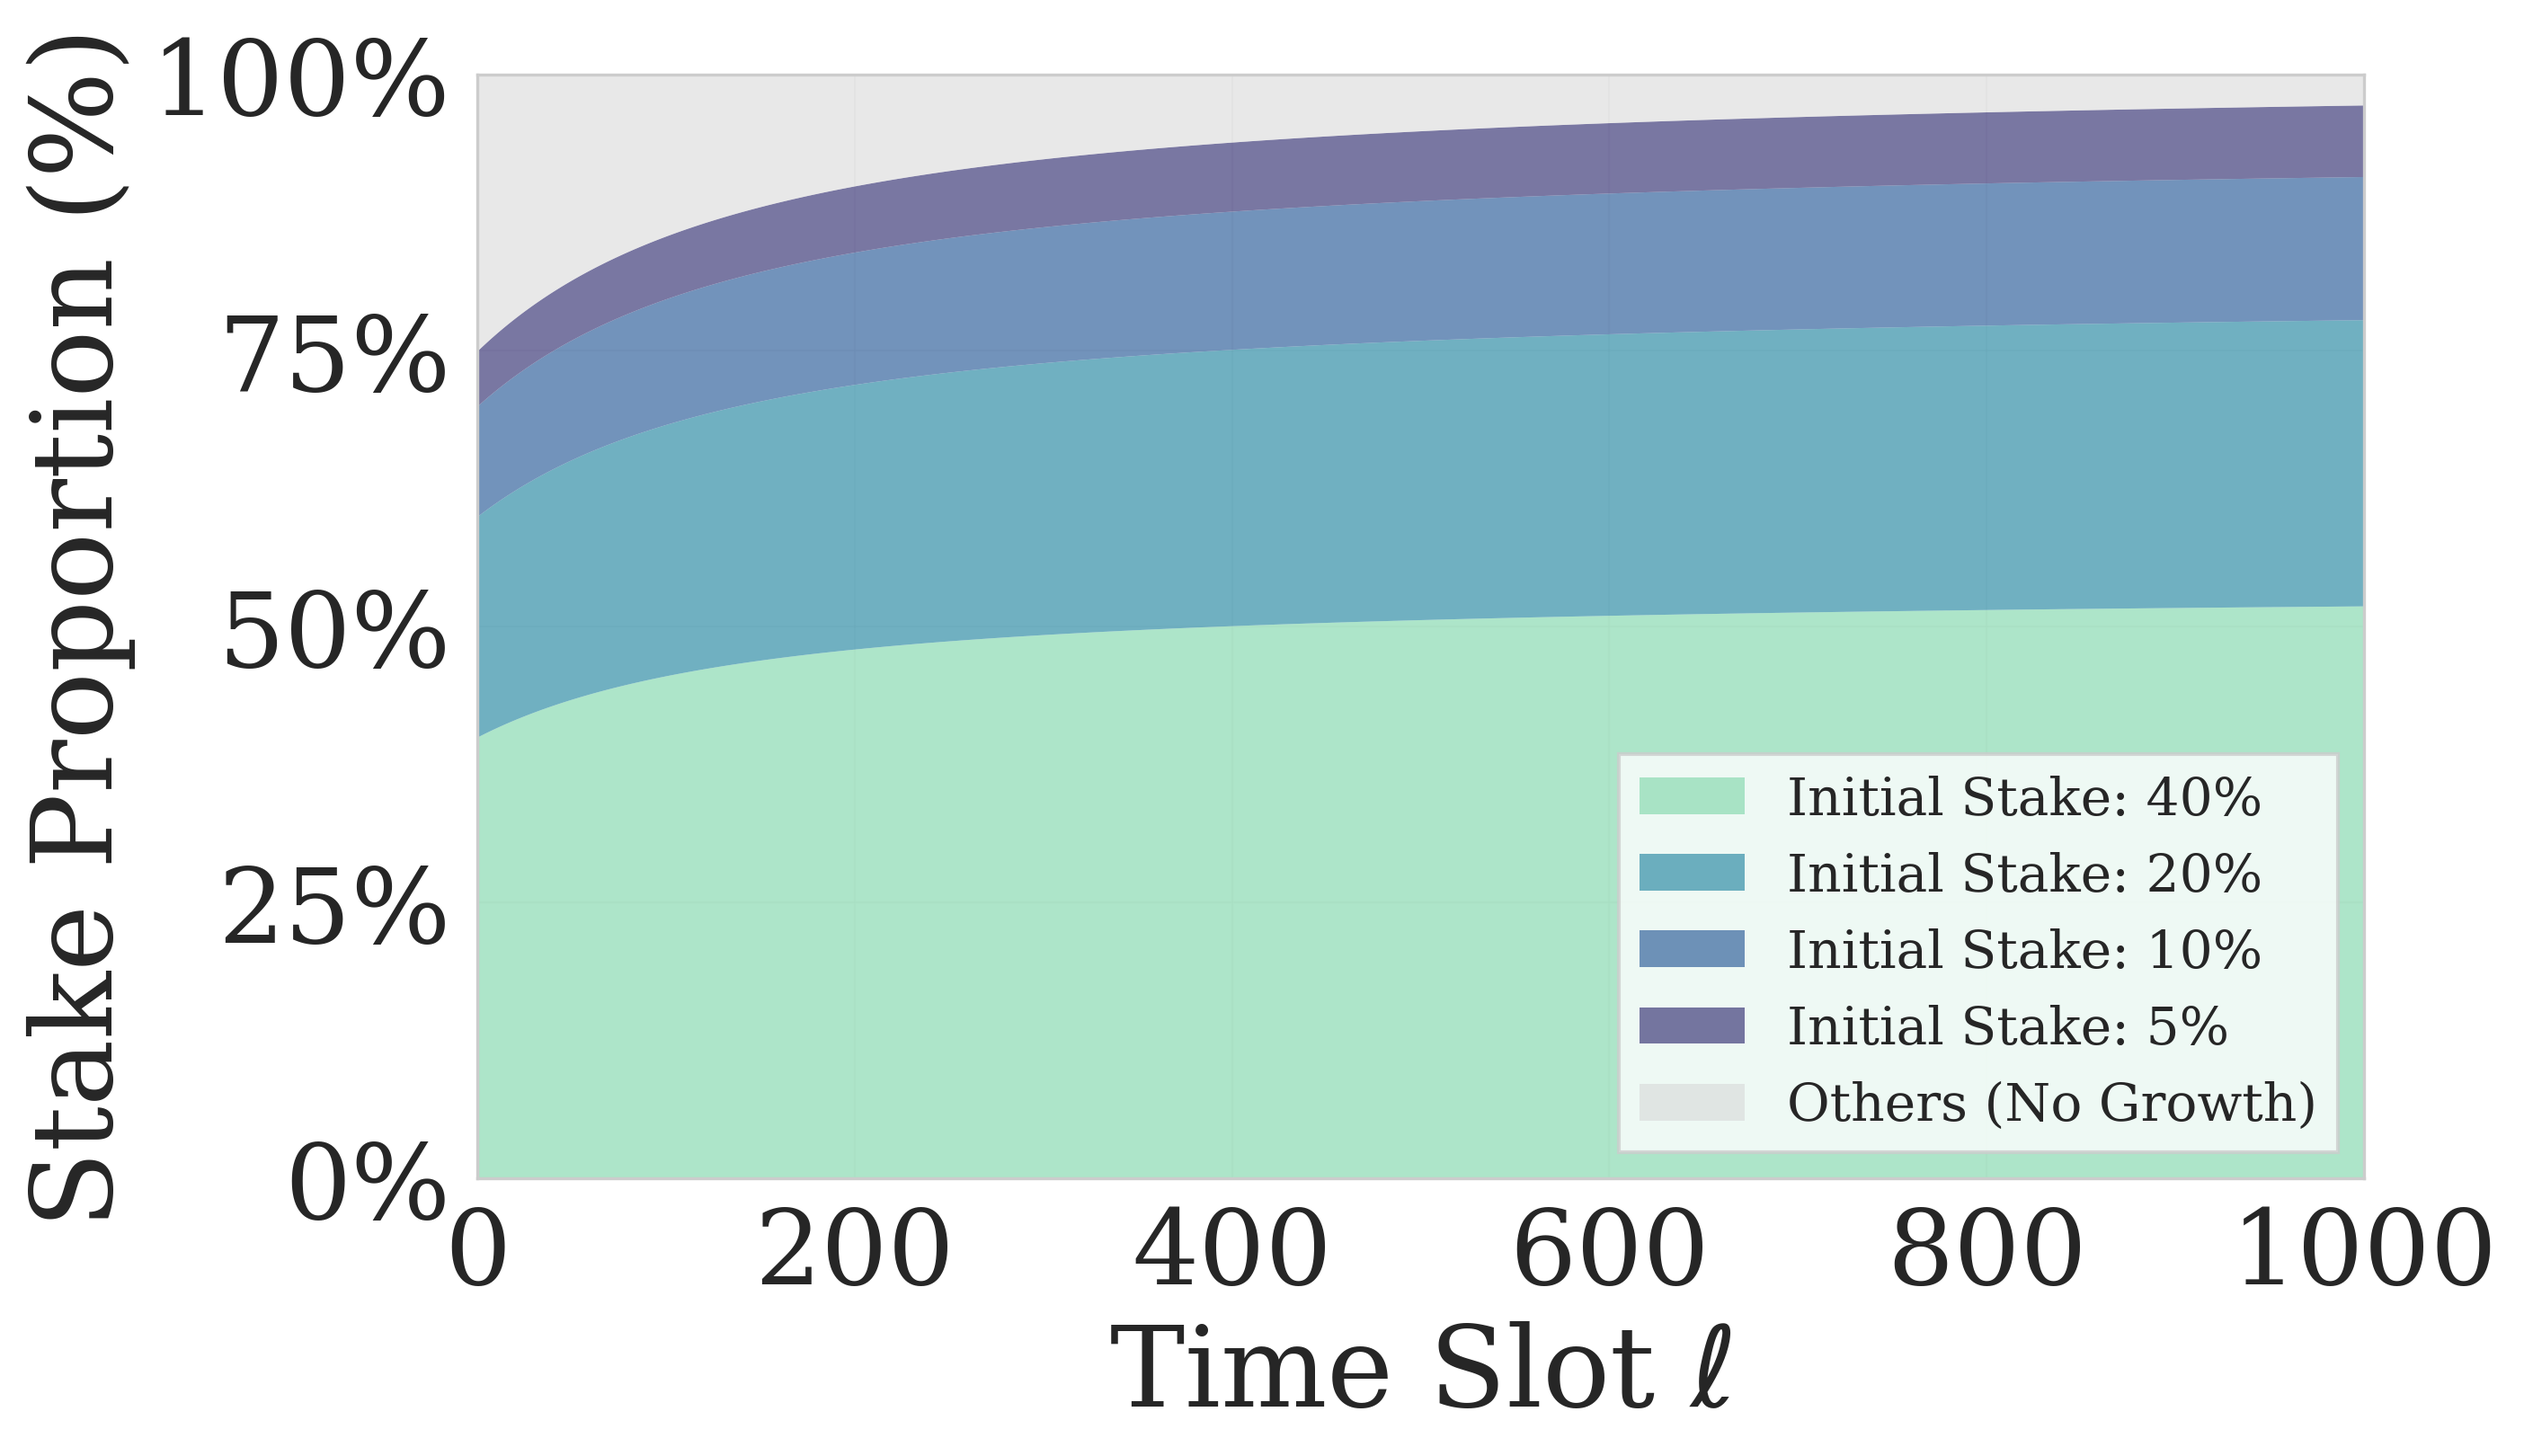
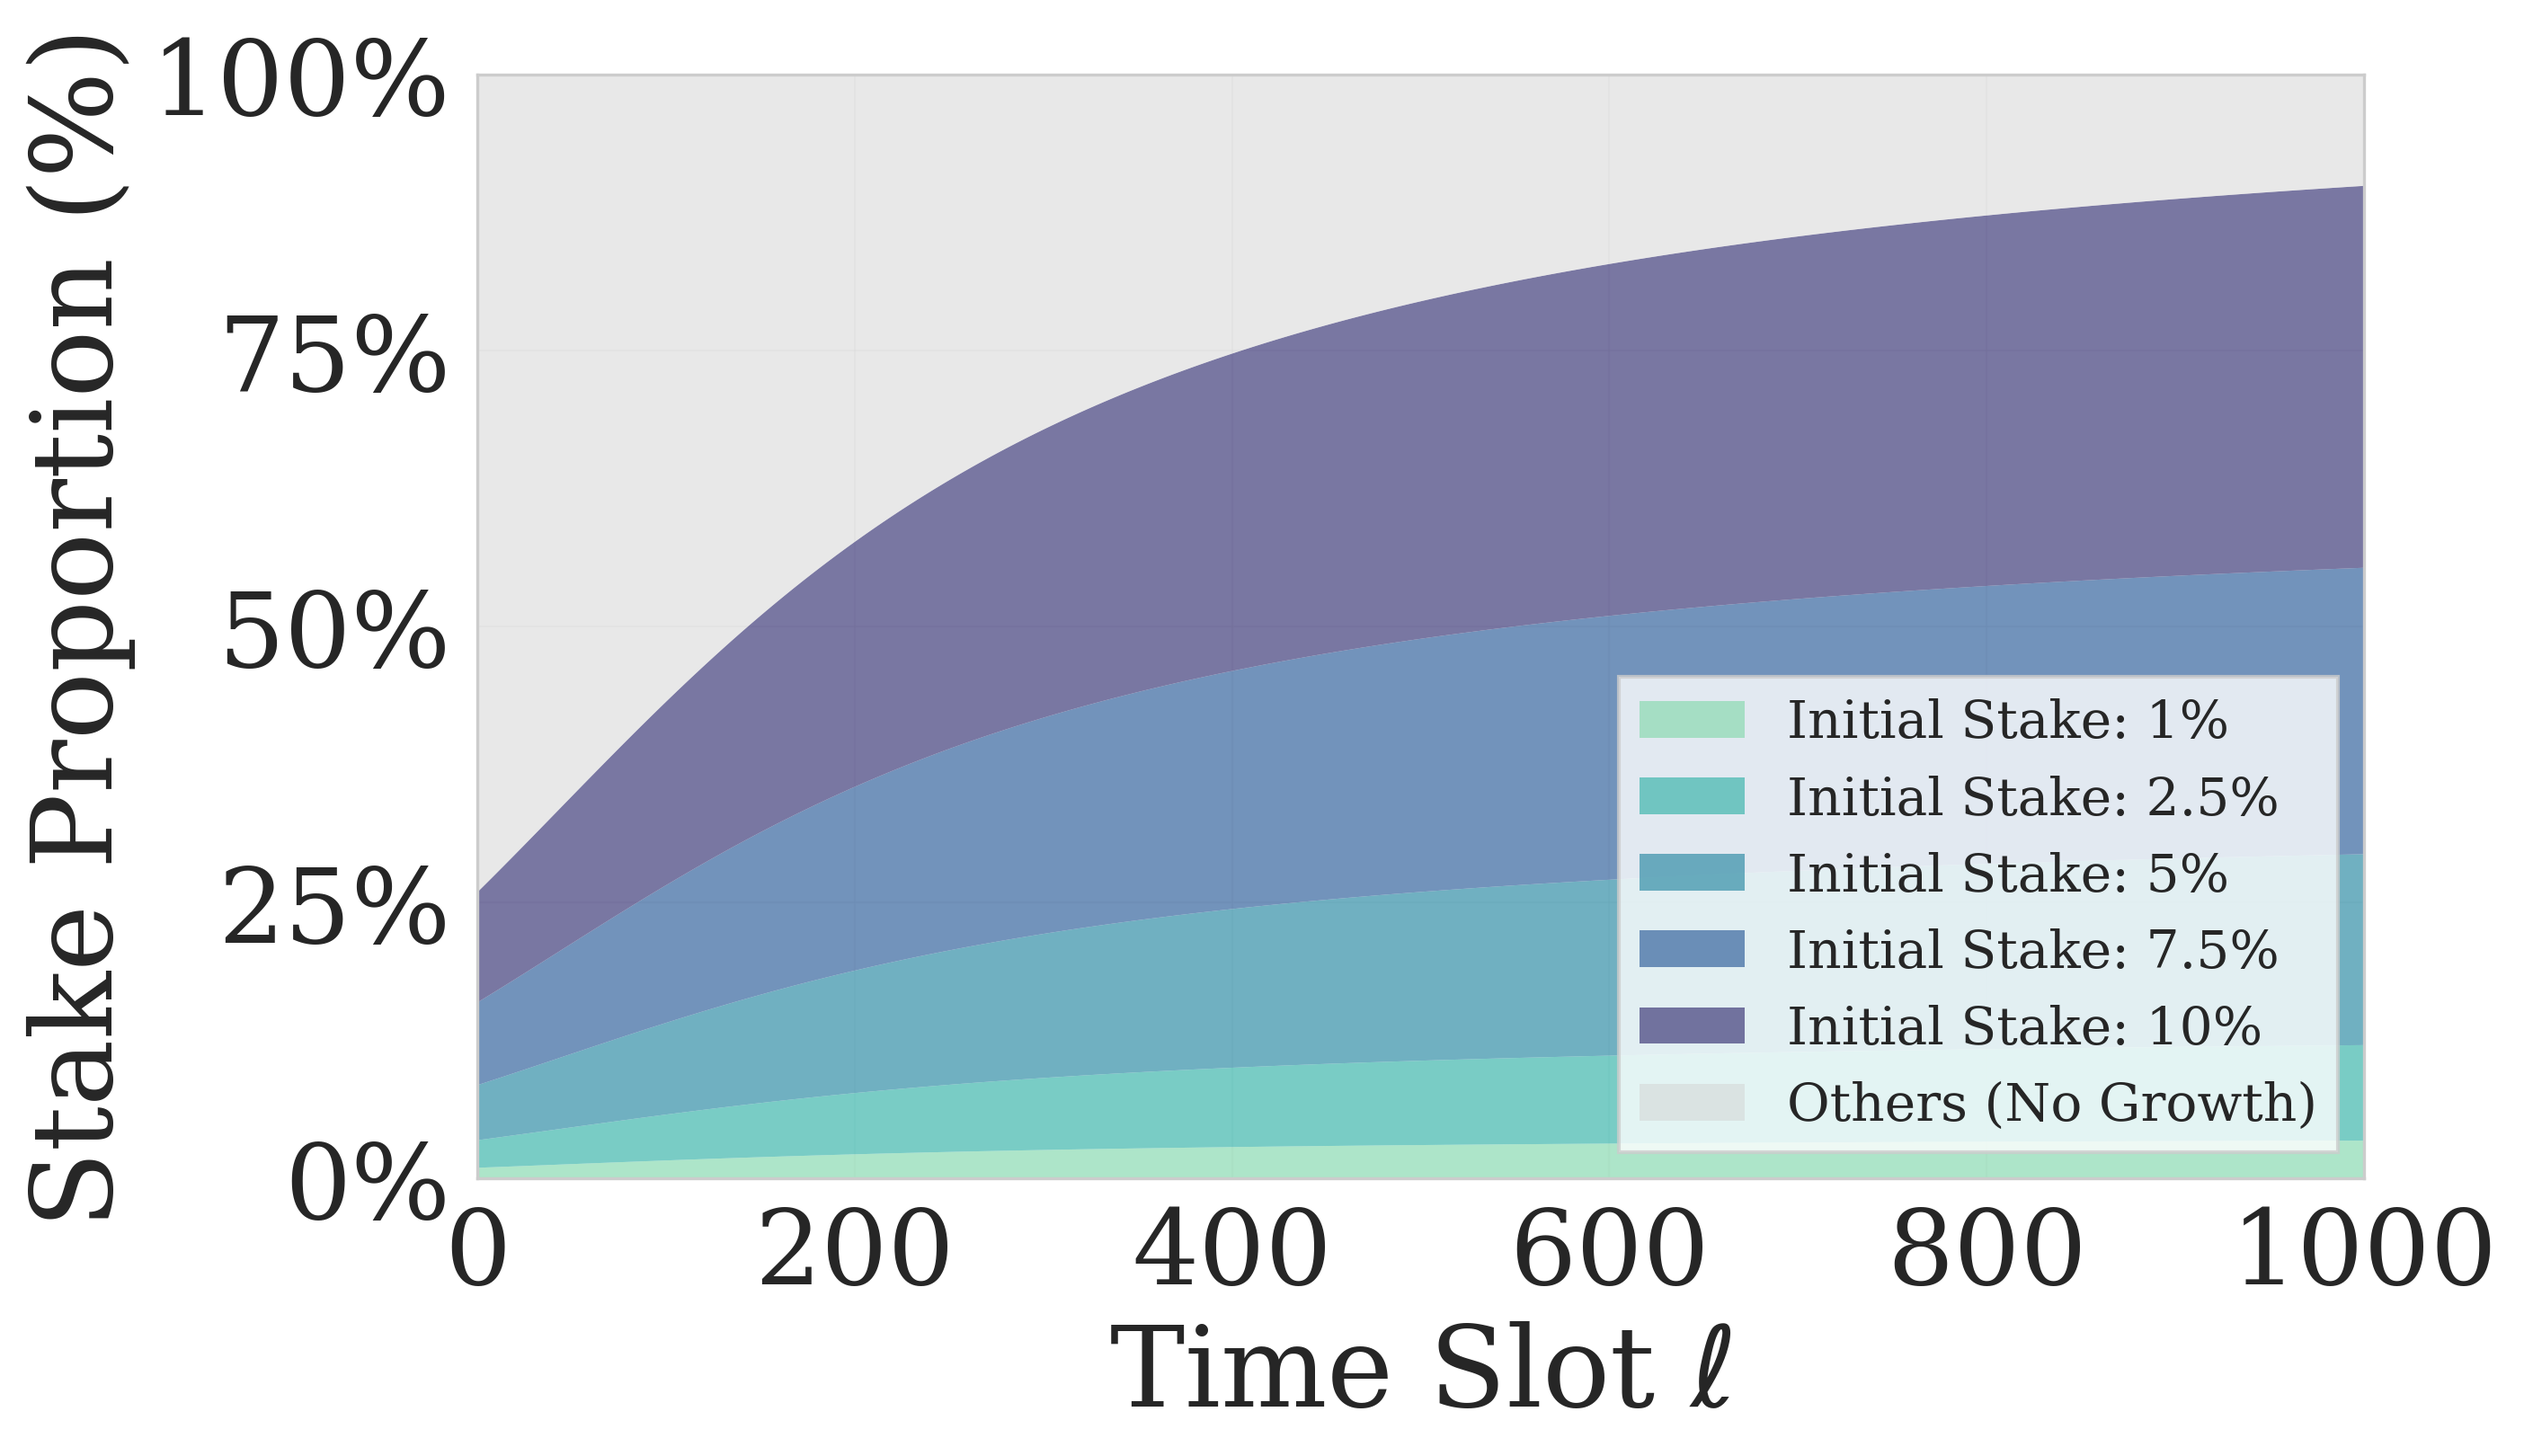
restake

diff --git a/plots/theory/restaking.py b/plots/theory/restaking.py
@@ -51,7 +51,7 @@ def create_builder_growth_theory_plot():
     f_pi = 0.5  # Same ability for all
     
     # Different initial stake values (as percentages of total)
-    initial_stake_pcts = [0.05, 0.10, 0.20, 0.40]  # 5%, 10%, 20%, 40%
+    initial_stake_pcts = [0.01, 0.025, 0.05, 0.075, 0.10]  # 1%, 2.5%, 5%, 7.5%, 10%
     initial_stakes = [total_stake * pct for pct in initial_stake_pcts]
     
     # Time slots
@@ -82,7 +82,7 @@ def create_builder_growth_theory_plot():
         # Plot growth rate over time
         ax.plot(time_slots[:-1], growth_rates, 
                 linewidth=3, color=palette[i], 
-                label=f'Initial Stake: {initial_stake_pcts[i]*100:.0f}%')
+                label=f'Initial Stake: {initial_stake_pcts[i]*100:.1f}%')
     
     # Add horizontal line at growth rate = 1
     ax.axhline(y=1, color='black', linestyle='--', alpha=0.7, linewidth=2)
@@ -114,12 +114,14 @@ def create_stake_evolution_plot():
     
     # Create multiple entities with different initial stakes (same ability)
     # All entities have the same ability (f_pi), only initial stake differs
+    # Order: 1%, 2.5%, 5%, 7.5%, 10% to match create_builder_growth_theory_plot()
     f_pi = 0.5  # Same ability for all
     entities = [
-        {'initial_stake': 400, 'f_pi': f_pi, 'label': 'Initial Stake: 40%', 'color': palette[0]},
-        {'initial_stake': 200, 'f_pi': f_pi, 'label': 'Initial Stake: 20%', 'color': palette[2]},
-        {'initial_stake': 100, 'f_pi': f_pi, 'label': 'Initial Stake: 10%', 'color': palette[3]},
-        {'initial_stake': 50, 'f_pi': f_pi, 'label': 'Initial Stake: 5%', 'color': palette[4]},
+        {'initial_stake': 10, 'f_pi': f_pi, 'label': 'Initial Stake: 1%', 'color': palette[0]},
+        {'initial_stake': 25, 'f_pi': f_pi, 'label': 'Initial Stake: 2.5%', 'color': palette[1]},
+        {'initial_stake': 50, 'f_pi': f_pi, 'label': 'Initial Stake: 5%', 'color': palette[2]},
+        {'initial_stake': 75, 'f_pi': f_pi, 'label': 'Initial Stake: 7.5%', 'color': palette[3]},
+        {'initial_stake': 100, 'f_pi': f_pi, 'label': 'Initial Stake: 10%', 'color': palette[4]},
     ]
     
     # Remaining stake goes to "others" (passive, no growth)
@@ -214,12 +216,14 @@ def create_proposer_stake_evolution_plot():
     
     # Create multiple entities with different initial stakes (same ability)
     # All entities have the same ability (f_pi), only initial stake differs
+    # Order: 1%, 2.5%, 5%, 7.5%, 10% to match create_builder_growth_theory_plot()
     f_pi = 0.5  # Same ability for all
     entities = [
-        {'initial_stake': 400, 'f_pi': f_pi, 'label': 'Initial Stake: 40%', 'color': palette[0]},
-        {'initial_stake': 200, 'f_pi': f_pi, 'label': 'Initial Stake: 20%', 'color': palette[2]},
-        {'initial_stake': 100, 'f_pi': f_pi, 'label': 'Initial Stake: 10%', 'color': palette[3]},
-        {'initial_stake': 50, 'f_pi': f_pi, 'label': 'Initial Stake: 5%', 'color': palette[4]},
+        {'initial_stake': 10, 'f_pi': f_pi, 'label': 'Initial Stake: 1%', 'color': palette[0]},
+        {'initial_stake': 25, 'f_pi': f_pi, 'label': 'Initial Stake: 2.5%', 'color': palette[1]},
+        {'initial_stake': 50, 'f_pi': f_pi, 'label': 'Initial Stake: 5%', 'color': palette[2]},
+        {'initial_stake': 75, 'f_pi': f_pi, 'label': 'Initial Stake: 7.5%', 'color': palette[3]},
+        {'initial_stake': 100, 'f_pi': f_pi, 'label': 'Initial Stake: 10%', 'color': palette[4]},
     ]
     
     # Remaining stake goes to "others" (passive, no growth)
